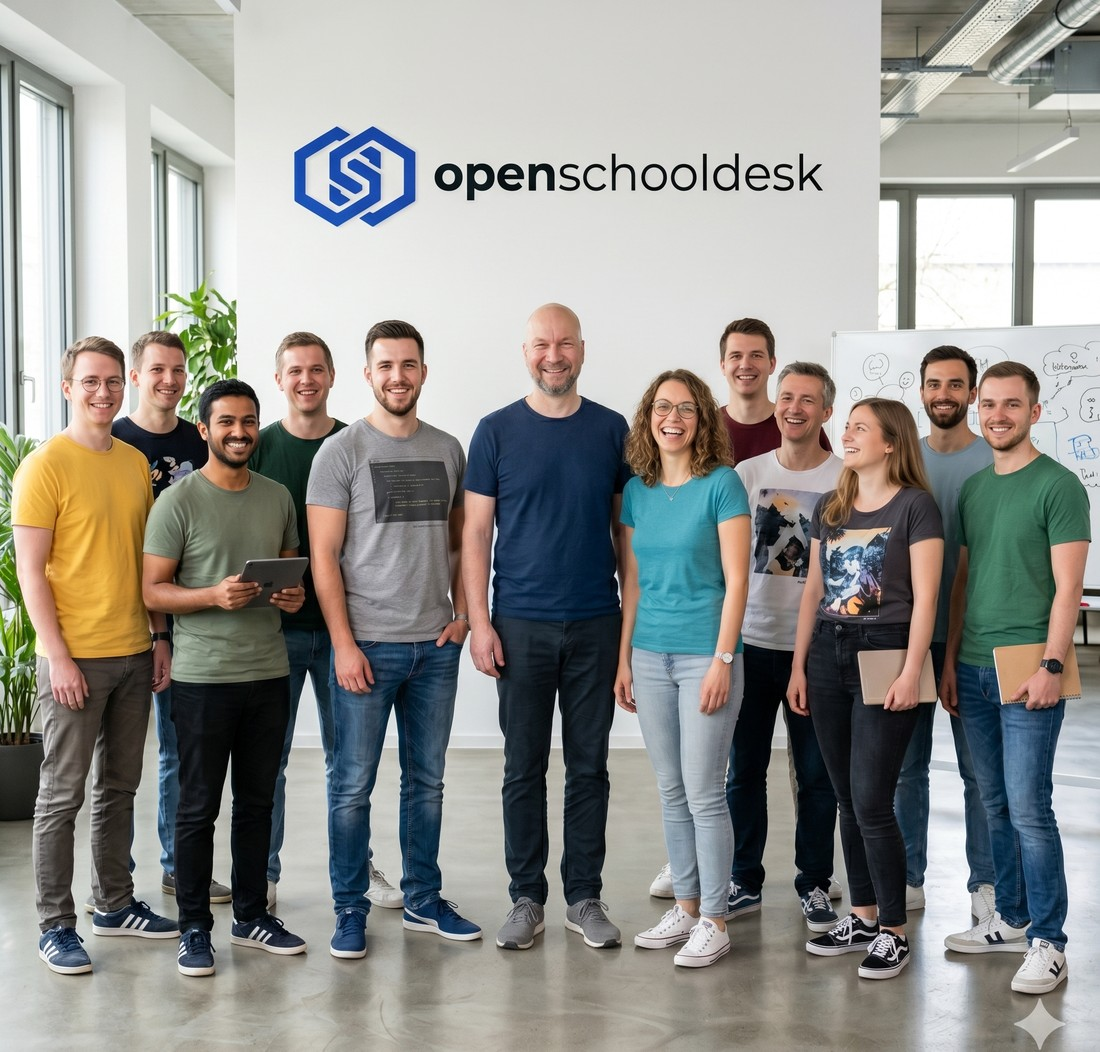
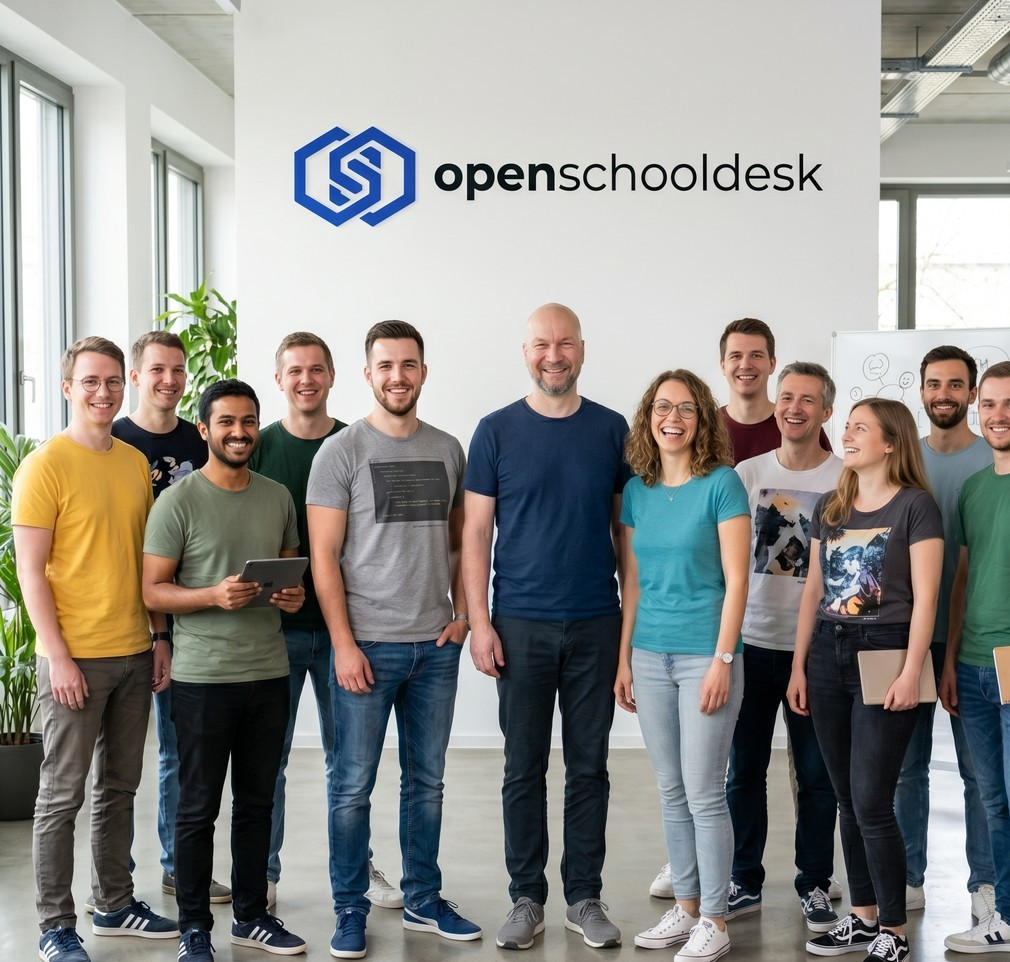
fix: crop Gemini watermark from team photo (hard crop bottom-right 90px)

diff --git a/public/ueber-uns/index.html b/public/ueber-uns/index.html
@@ -166,8 +166,8 @@
     <img
       src="/ueber-uns/team.jpg"
       alt="Das openschooldesk-Team im Coworking-Space in Wolfenbüttel"
-      width="1100"
-      height="1052"
+      width="1010"
+      height="962"
     />
   </div>
 
